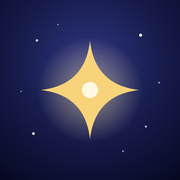
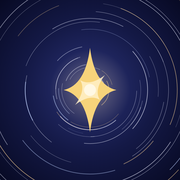
アイコンを北極星に変更
Claude-Session: https://claude.ai/code/session_01WZXrLgWkbtHWYp83hoaQAh

diff --git a/sw.js b/sw.js
@@ -1,6 +1,6 @@
 // 星空時間：オフラインでも開けるようにするしくみ
 // アプリを更新したら、下の VERSION の数字を1つ上げてください（古い保存を入れかえます）。
-const VERSION = 'hoshizora-v1';
+const VERSION = 'hoshizora-v2';
 const FILES = ["./", "index.html", "manifest.webmanifest", "icons/icon-192.png", "icons/icon-512.png", "icons/icon-maskable-512.png", "icons/apple-touch-icon.png", "icons/favicon.png", "cards/a01.jpg", "cards/a02.jpg", "cards/a03.jpg", "cards/a04.jpg", "cards/a05.jpg", "cards/a06.jpg", "cards/a07.jpg", "cards/a08.jpg", "cards/z01.jpg", "cards/z02.jpg", "cards/z03.jpg", "cards/z04.jpg", "cards/z05.jpg", "cards/z06.jpg", "cards/z07.jpg", "cards/z08.jpg", "cards/z09.jpg", "cards/z10.jpg", "cards/z11.jpg", "cards/z12.jpg", "cards/z13.jpg", "cards/z14.jpg", "cards/z15.jpg", "cards/z16.jpg", "cards/z17.jpg", "cards/z18.jpg", "cards/z19.jpg", "cards/z20.jpg", "cards/z21.jpg", "cards/z22.jpg", "cards/z23.jpg", "cards/z24.jpg", "cards/z25.jpg", "cards/z26.jpg", "cards/z27.jpg", "cards/z28.jpg", "cards/z29.jpg", "cards/z30.jpg", "cards/z31.jpg", "cards/z32.jpg", "cards/z33.jpg", "cards/z34.jpg", "cards/z35.jpg", "cards/z36.jpg", "cards/z37.jpg", "cards/z38.jpg", "cards/z39.jpg", "cards/z40.jpg", "cards/z41.jpg", "cards/z42.jpg", "cards/z43.jpg", "cards/z44.jpg", "cards/z45.jpg", "cards/z46.jpg", "cards/z47.jpg", "cards/z48.jpg", "cards/z49.jpg", "cards/z50.jpg", "cards/z51.jpg", "cards/z52.jpg", "cards/z53.jpg", "cards/z54.jpg", "cards/z55.jpg", "cards/z56.jpg", "cards/z57.jpg", "cards/z58.jpg", "cards/z59.jpg", "cards/z60.jpg", "cards/z61.jpg", "cards/z62.jpg", "cards/z63.jpg", "cards/z64.jpg", "cards/z65.jpg", "cards/z66.jpg", "cards/z67.jpg", "cards/z68.jpg", "cards/z69.jpg", "cards/z70.jpg", "cards/z71.jpg", "cards/z72.jpg", "cards/z73.jpg", "cards/z74.jpg", "cards/z75.jpg", "cards/z76.jpg", "cards/z77.jpg", "cards/z78.jpg", "cards/z79.jpg", "cards/z80.jpg", "cards/z81.jpg", "cards/z82.jpg", "cards/z83.jpg", "cards/z84.jpg", "cards/z85.jpg", "cards/z86.jpg", "cards/z87.jpg", "cards/z88.jpg"];
 
 self.addEventListener('install', e => {
